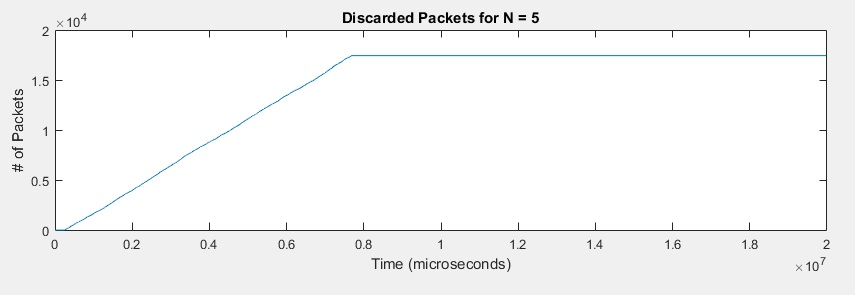
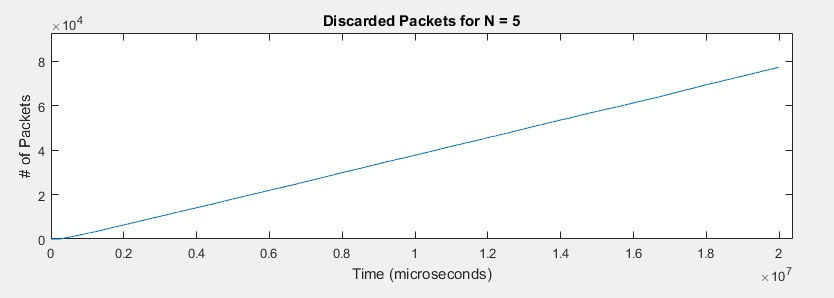
Fixed code for discarded packets for n=5,9.

diff --git a/lab3/part1/ex1p3_n5/plot_ex1p3_n5.m b/lab3/part1/ex1p3_n5/plot_ex1p3_n5.m
@@ -43,8 +43,8 @@ ylim([0  max(waiting_time)*1.2]);
 discarded_packets = zeros(1,size(elapsed_time,1));
 i = 1;
 
-while  i <= size(sink_pkt_size,1)
-    if((backlog(i) + sink_pkt_size(i)) > 102400)
+while  i <= size(packet_size,1)
+    if((backlog(i) + packet_size(i)) > 102400)
         discarded_packets(i) = 1;
     end
     i = i + 1;
@@ -55,6 +55,8 @@ plot(time_depart, cumsum(discarded_packets));
 title('Discarded Packets for N = 5');
 xlabel('Time (microseconds)');
 ylabel('# of Packets');
+ylim([0  max(cumsum(discarded_packets))*1.2]);
+xlim([0  max(time_depart)*1.02]);
 
 %these packets sum to 100*1024: sum(packet_size(1:1016),1) (at this point
 %buffer overflows

diff --git a/lab3/part1/ex1p3_n1/plot_ex1p3_n1.m b/lab3/part1/ex1p3_n1/plot_ex1p3_n1.m
@@ -44,8 +44,8 @@ ylim([0  max(waiting_time)*1.2]);
 discarded_packets = zeros(1,size(elapsed_time,1));
 i = 1;
 
-while  i <= size(sink_pkt_size,1)
-    if((backlog(i) + sink_pkt_size(i)) > 102400)
+while  i <= size(packet_size,1)
+    if((backlog(i) + packet_size(i)) > 102400)
         discarded_packets(i) = 1;
     end
     i = i + 1;

diff --git a/lab3/part1/ex1p3_n9/plot_ex1p3_n9.m b/lab3/part1/ex1p3_n9/plot_ex1p3_n9.m
@@ -43,8 +43,8 @@ ylim([0  max(waiting_time)*1.2]);
 discarded_packets = zeros(1,size(elapsed_time,1));
 i = 1;
 
-while  i <= size(sink_pkt_size,1)
-    if((backlog(i) + sink_pkt_size(i)) > 102400)
+while  i <= size(packet_size,1)
+    if((backlog(i) + packet_size(i)) > 102400)
         discarded_packets(i) = 1;
     end
     i = i + 1;
